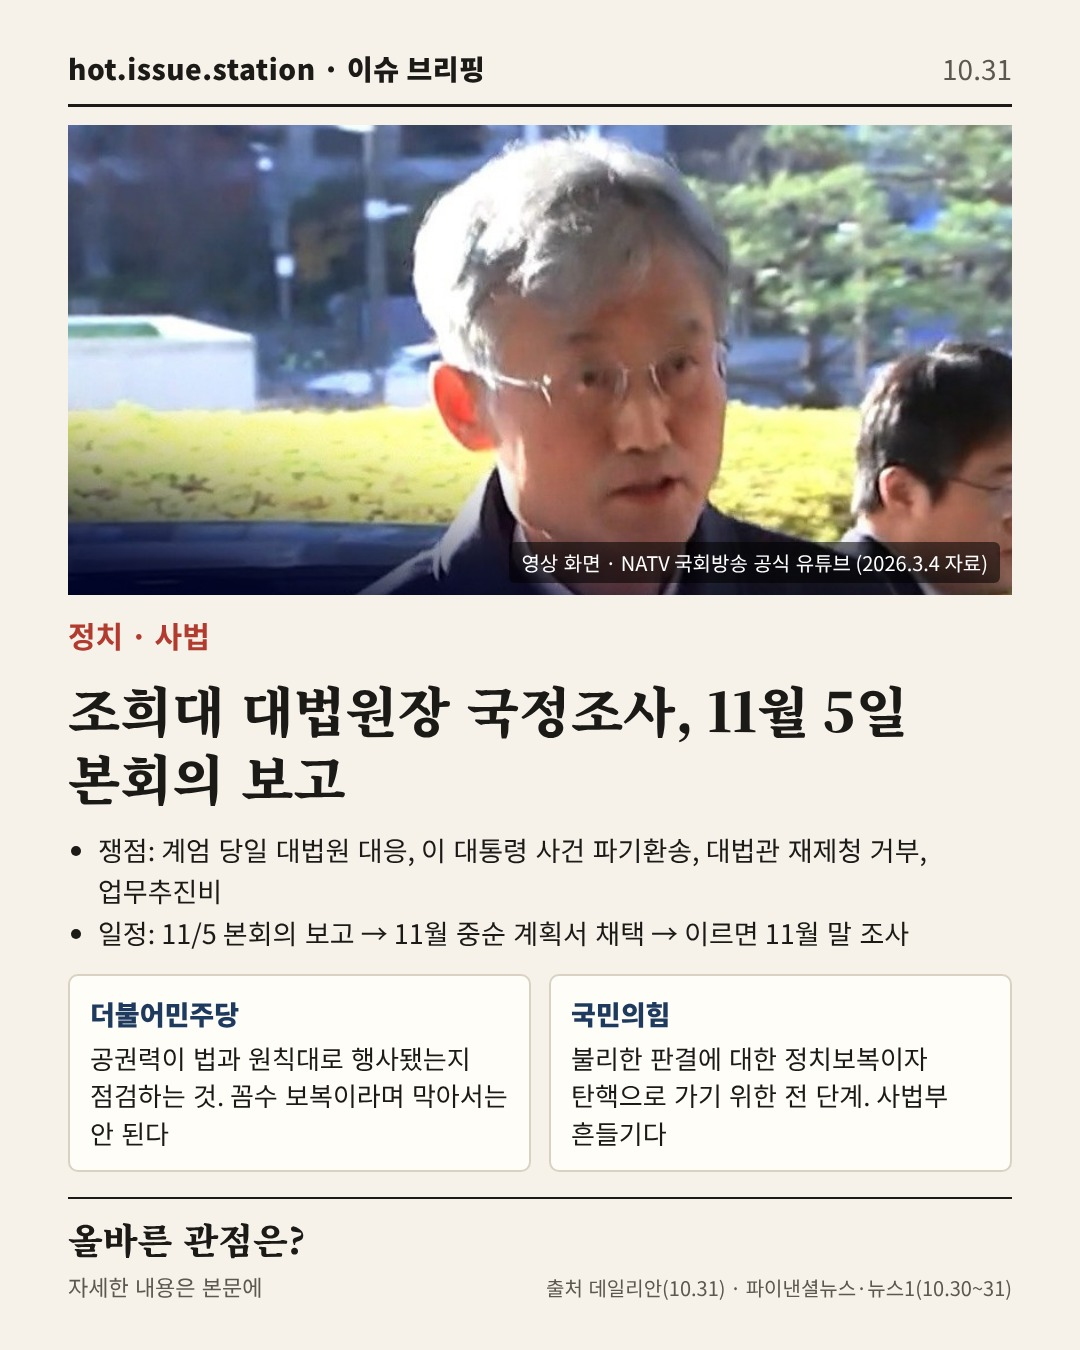
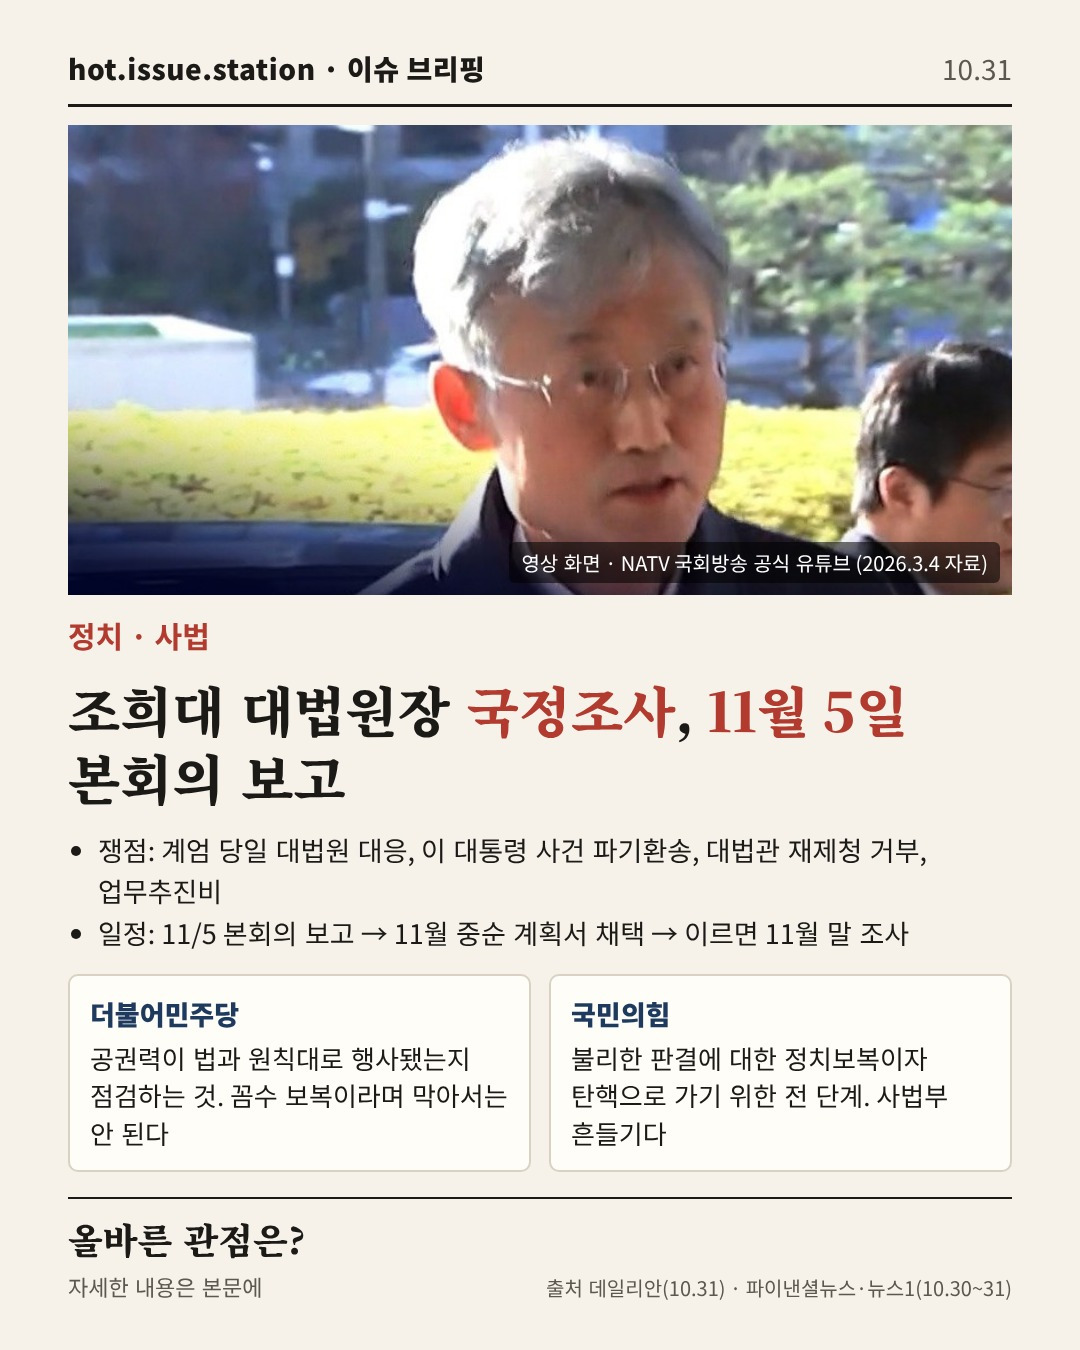
이슈 브리핑: 제목 *강조* 색
Claude-Session: https://claude.ai/code/session_017sdLagfdwDnGFusHKe7jDQ

Changed region(s): [[0.4278, 0.4978, 0.8556, 0.56]]

diff --git a/scripts/make_brief.py b/scripts/make_brief.py
@@ -5,7 +5,7 @@
 
 python scripts/make_brief.py rounds/<ID>.json --out posts/<ID>
 round JSON:
-{ "date":"2026-10-31", "category":"정치 · 사법", "headline":"…", "deck":"한 줄 설명",
+{ "date":"2026-10-31", "category":"정치 · 사법", "headline":"…(*강조할 말*)", "deck":"한 줄 설명",
   "photo":"assets/thumbs/x.jpg", "photoCrop":[x0,y0,x1,y1](선택, 원본 픽셀), "photoLabel":"영상 화면 · ○○ 공식 유튜브",
   "points":["쟁점 1","쟁점 2","쟁점 3"],
   "sides":[{"name":"더불어민주당","say":"…"},{"name":"국민의힘","say":"…"}],   # 같은 분량
@@ -15,6 +15,12 @@ import argparse, base64, html, io, json, pathlib, sys
 
 E = html.escape
 PAPER, INK, SUB, LINE, ACC, NAVY = "#F6F2EA", "#1B1A17", "#5C5850", "#D9D2C3", "#B23A2E", "#1F3A5F"
+
+
+def hl(t):
+    """제목의 *단어*는 강조색(진한 빨강)으로 (대표 요청 10/31)."""
+    import re
+    return re.sub(r"\*(.+?)\*", lambda m: f'<span style="color:{ACC}">{m.group(1)}</span>', E(t))
 
 
 def photo_uri(path, crop):
@@ -52,7 +58,7 @@ ul{{margin:0;padding-left:30px;font-size:27px;line-height:1.5}} li{{margin:2px 0
 <div class="top"><div class="brand">hot.issue.station · 이슈 브리핑</div><div class="date">{m}.{d}</div></div>
 <div class="ph"><div class="lb">{E(r["photoLabel"])}</div></div>
 <div class="cat">{E(r["category"])}</div>
-<h1>{E(r["headline"])}</h1>
+<h1>{hl(r["headline"])}</h1>
 {f'<div class="deck">{E(r["deck"])}</div>' if r.get("deck") else ""}
 <ul>{pts}</ul>
 <div class="sides">{sides}</div>
